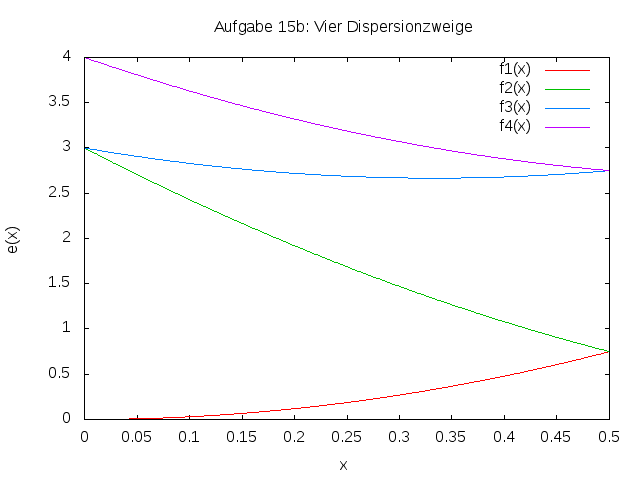
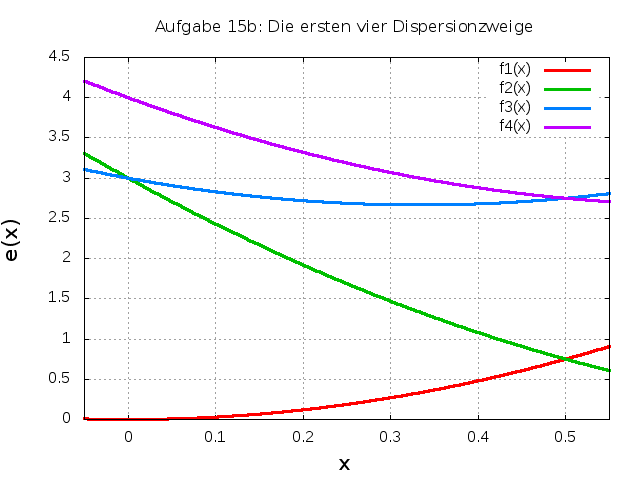
Aufgabe 15b fertig

diff --git a/blatt07_lsg_15.tex b/blatt07_lsg_15.tex
@@ -45,8 +45,8 @@ $h_i \in \{-1, 0, 1\}$ variiert (27 Kombinationen) jeweils $a, b, c$ gemäß For
 \eqref{eq-disp2} und \eqref{eq-disp3} ausgewertet, siehe Tabelle \ref{tab1}.
 Die Bänder wurden entsprechend dem Wert $\epsilon(0,5)$ und anschließend nach
 $\epsilon(0)$ als Bandnummer $n$ sortiert. Aus der Tabelle ist auch der
-Entartungsgrad ersichtlich.
-\begin{table}[!hbp]
+Entartungsgrad ersichtlich (= 1, 1, 3, 3).
+\begin{table}[!ht]
 \caption{Teil a) Dispersionszweige und Entartungsgrad}
 \begin{center}
 \begin{tabular}{|c|c|c|c|c|c|r|r|c|}
@@ -84,7 +84,6 @@ Entartungsgrad ersichtlich.
 \end{center}
 \label{tab1}
 \end{table}
-
 Die 4 untersten Bänder sind somit:
 \begin{align*}
 n = 1:\quad & \epsilon_{000}(x) = 3 x^2 \\
@@ -92,8 +91,19 @@ n = 2:\quad & \epsilon_{\bar1\bar1\bar1}(x) =  3 x^2 - 6 x + 3\\
 n = 3:\quad & \epsilon_{\bar100}(x) = \epsilon_{0\bar10}(x) = \epsilon_{00\bar1}(x) =  3 x^2  - 2 x + 3\\
 n = 4:\quad & \epsilon_{\bar1\bar10}(x) = \epsilon_{\bar10\bar1}(x) = \epsilon_{0\bar1\bar1}(x) = 3 x^2 - 4 x + 4\\
 \end{align*}
+\suppressfloats
 
+\begin{wrapfigure}{R}{12cm}
+  \centering
+  \includegraphics[width=8cm]{aufgabe15b.png}
+\caption{zu Aufgabe 15 b)}
+\end{wrapfigure}
 \subsubsection*{b)}
+Überschneidungen gibt es zwischen der 1. und 2. Kurve bei $x = 0,5$, zwischen der
+2. und 3. Kurve bei $x = 0$ und zwischen der 3. und 4. Kurve bei $x = 0,5$.
+An diesen Stellen erwarten wir Aufspaltungen der Bänder.
+\newpage
+
 
 \subsubsection*{c)}
 
